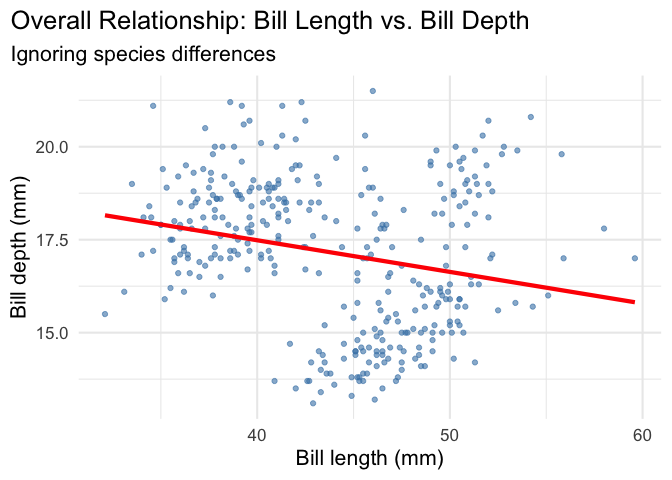
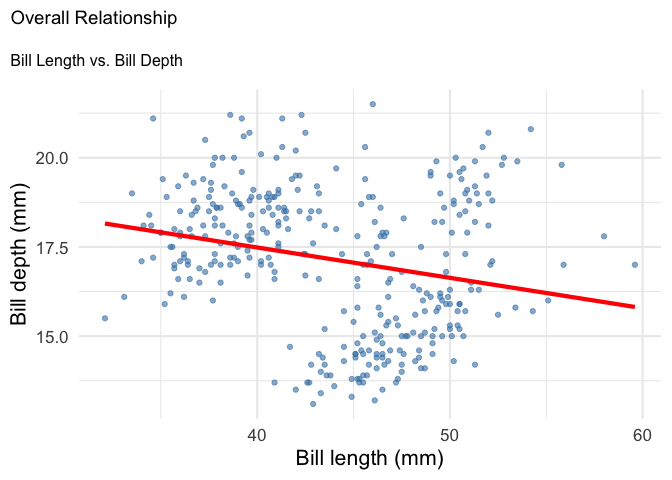
Add side-by-side comparison plot demonstrating Simpson's Paradox with improved spacing and layout

diff --git a/README.md b/README.md
@@ -46,13 +46,15 @@ plot1 <- ggplot(data = penguins,
         y = bill_depth_mm)) +
   theme_minimal(16) +
   geom_point(alpha = 0.6, color = "steelblue") +
-  labs(title = "Overall Relationship: Bill Length vs. Bill Depth",
-       subtitle = "Ignoring species differences",
+  labs(title = "Overall Relationship",
+       subtitle = "Bill Length vs. Bill Depth",
        x = "Bill length (mm)",
        y = "Bill depth (mm)") +
   theme(plot.title.position = "plot",
         plot.caption = element_text(hjust = 0, face= "italic"),
-        plot.caption.position = "plot") +
+        plot.caption.position = "plot",
+        plot.title = element_text(size = 14, margin = margin(b = 20)),
+        plot.subtitle = element_text(size = 12, margin = margin(b = 15))) +
   geom_smooth(method = "lm", se = FALSE, color = "red", linewidth = 1.5)
 
 plot1
@@ -79,14 +81,16 @@ plot2 <- ggplot(data = penguins,
   scale_color_manual(values = c("darkorange","purple","cyan4"),
                      name = "Species") +
   labs(title = "Simpson's Paradox Revealed!",
-       subtitle = "The relationship reverses when we consider species",
+       subtitle = "Species-specific relationships",
        x = "Bill length (mm)",
        y = "Bill depth (mm)",
        caption = "Red line: Overall trend | Colored lines: Within-species trends") +
   theme(plot.title.position = "plot",
         plot.caption = element_text(hjust = 0, face = "italic"),
         plot.caption.position = "plot",
-        legend.position = "bottom") +
+        legend.position = "bottom",
+        plot.title = element_text(size = 14, margin = margin(b = 20)),
+        plot.subtitle = element_text(size = 12, margin = margin(b = 15))) +
   # Overall trend (ignoring species)
   geom_smooth(method = "lm", se = FALSE, color = "red", 
               linewidth = 1.5, alpha = 0.8) +
@@ -117,16 +121,16 @@ Simpson’s Paradox crystal clear:
 ``` r
 # Create the side-by-side comparison using patchwork
 comparison_plot <- plot1 + plot2 +
-  plot_layout(guides = "collect") +
+  plot_layout(guides = "collect", widths = c(1, 1), ncol = 2) +
   plot_annotation(
     title = "Simpson's Paradox: The Same Data, Two Different Stories",
     subtitle = "Left: Overall relationship (misleading) | Right: Species-specific relationships (truth)",
     caption = "The paradox: A positive overall trend masks negative within-species trends due to species confounding",
     theme = theme_minimal(16) +
       theme(
-        plot.title = element_text(size = 18, face = "bold", hjust = 0.5),
-        plot.subtitle = element_text(size = 14, hjust = 0.5, color = "darkred"),
-        plot.caption = element_text(size = 12, hjust = 0, face = "italic", color = "darkblue"),
+        plot.title = element_text(size = 18, face = "bold", hjust = 0.5, margin = margin(b = 40)),
+        plot.subtitle = element_text(size = 14, hjust = 0.5, color = "darkred", margin = margin(b = 30)),
+        plot.caption = element_text(size = 12, hjust = 0, face = "italic", color = "darkblue", margin = margin(t = 30)),
         plot.title.position = "plot",
         plot.caption.position = "plot"
       )
@@ -135,8 +139,9 @@ comparison_plot <- plot1 + plot2 +
 comparison_plot
 ```
 
-![Side-by-Side Comparison: Simpson’s Paradox in
-Action](README_files/figure-commonmark/unnamed-chunk-3-1.png)
+<img src="README_files/figure-commonmark/unnamed-chunk-3-1.png"
+style="width:100.0%"
+alt="Side-by-Side Comparison: Simpson’s Paradox in Action" />
 
 **The Power of Side-by-Side Comparison!** 🎯
 
